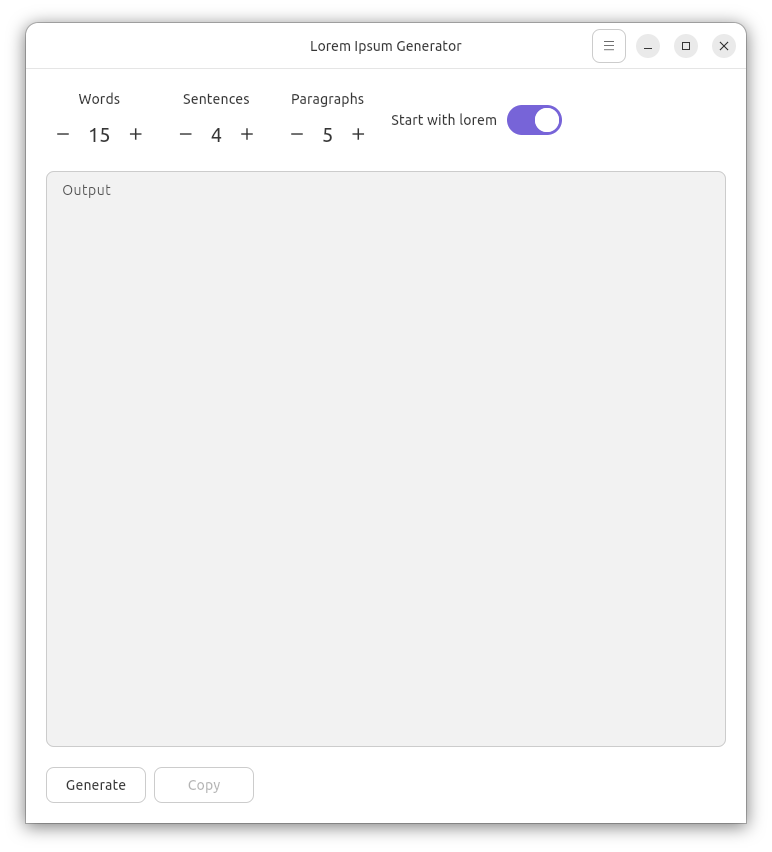
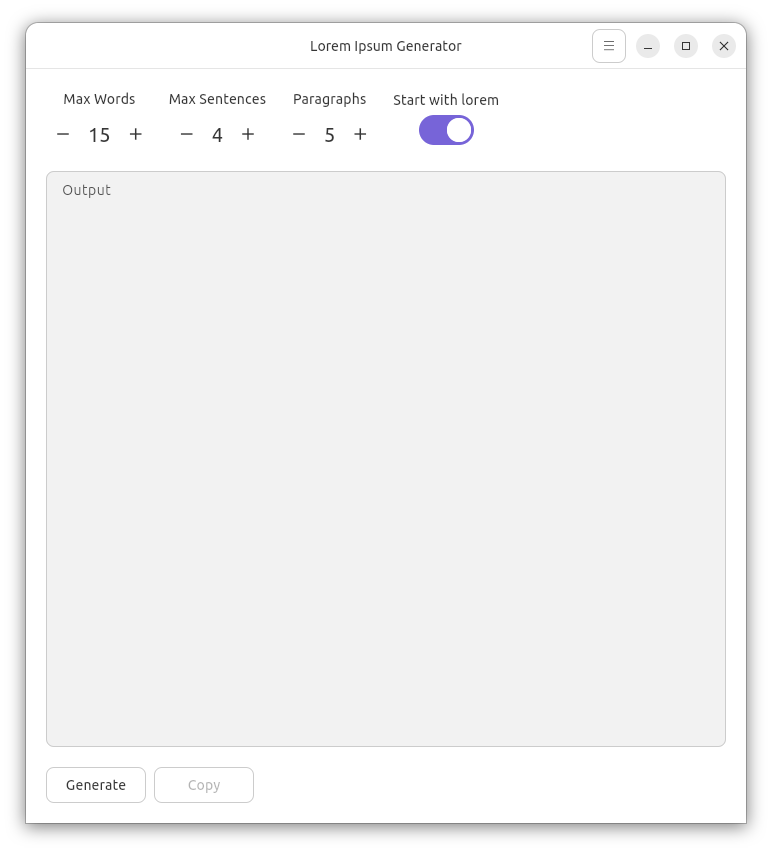
Updated UI. Bumped version

diff --git a/lib/ui/home_page.dart b/lib/ui/home_page.dart
@@ -89,7 +89,7 @@ class _MyHomePageState extends State<MyHomePage> {
               mainAxisAlignment: MainAxisAlignment.start,
               children: [
                 NumberEditor(
-                  title: 'Words',
+                  title: 'Max Words',
                   value: _wordCount,
                   onChanged: (value) {
                     setState(() {
@@ -102,7 +102,7 @@ class _MyHomePageState extends State<MyHomePage> {
                 ),
                 const SizedBox(width: 16),
                 NumberEditor(
-                  title: 'Sentences',
+                  title: 'Max Sentences',
                   value: _sentenceCount,
                   onChanged: (value) {
                     setState(() {
@@ -127,25 +127,29 @@ class _MyHomePageState extends State<MyHomePage> {
                   maxValue: 40,
                 ),
                 const SizedBox(width: 16),
-                InkWell(
-                  onTap: () {
-                    setState(() {
-                      _startWithLorem = !_startWithLorem;
-                    });
-                    _preferencesService.saveStartWithLorem(_startWithLorem);
-                  },
-                  child: Text("Start with lorem", style: Theme.of(context).textTheme.titleSmall),
+                Column(
+                  children: [
+                    InkWell(
+                      onTap: () {
+                        setState(() {
+                          _startWithLorem = !_startWithLorem;
+                        });
+                        _preferencesService.saveStartWithLorem(_startWithLorem);
+                      },
+                      child: Text("Start with lorem", style: Theme.of(context).textTheme.titleSmall),
+                    ),
+                    YaruSwitch(
+                      value: _startWithLorem,
+                      onChanged: (value) {
+                        setState(() {
+                          _startWithLorem = value;
+                        });
+                        _preferencesService.saveStartWithLorem(value);
+                      },
+                    ),
+                  ],
                 ),
-                const SizedBox(width: 8),
-                YaruSwitch(
-                  value: _startWithLorem,
-                  onChanged: (value) {
-                    setState(() {
-                      _startWithLorem = value;
-                    });
-                    _preferencesService.saveStartWithLorem(value);
-                  },
-                ),
+
               ],
             ),
             const SizedBox(height: kYaruPagePadding),
